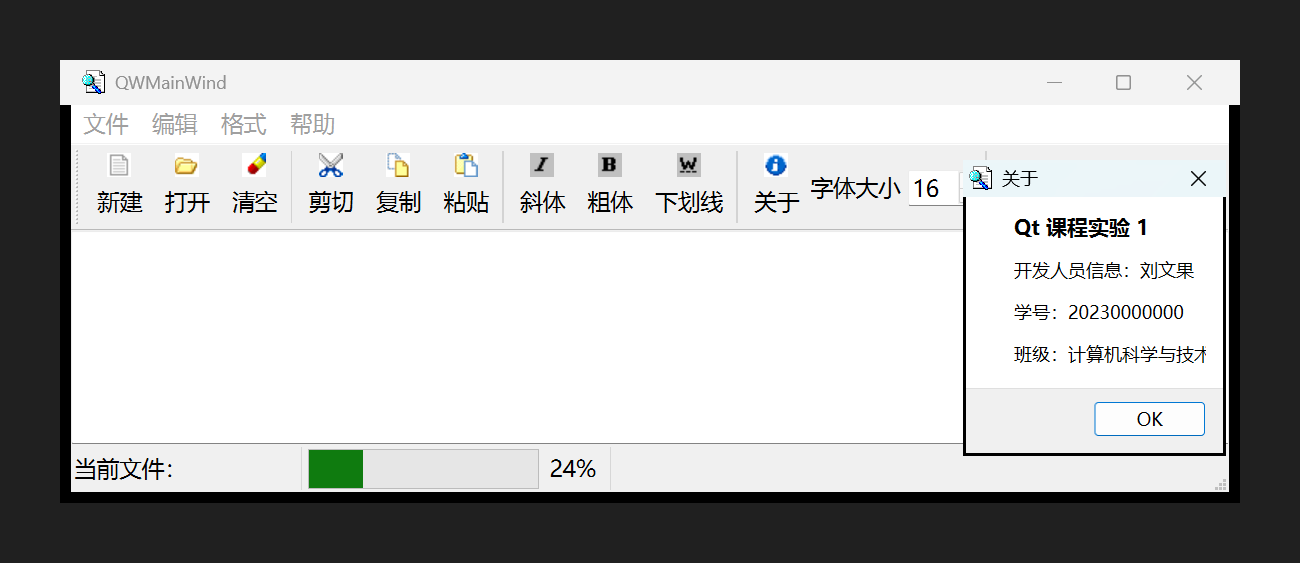
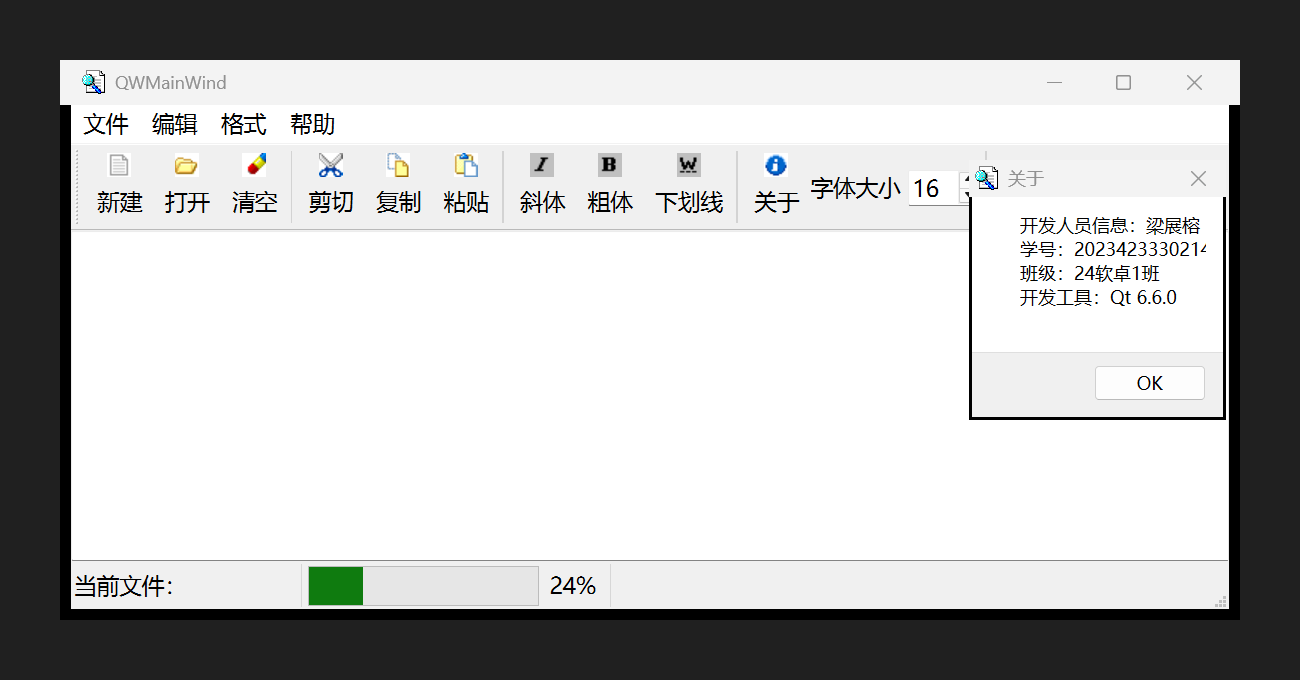
实验1：关于窗口填入真实姓名/学号/班级，更新运行截图

diff --git a/samp2_4App/qwmainwind.cpp b/samp2_4App/qwmainwind.cpp
@@ -14,9 +14,9 @@
 
 //==================== 实验1 任务1：关于窗口中的作者信息 ====================
 // 只需修改下面两行，即可把"关于"窗口里的姓名、学号换成自己的信息
-#define APP_AUTHOR_NAME     QStringLiteral("刘文果")        // 姓名
-#define APP_AUTHOR_ID       QStringLiteral("20230000000")   // 学号
-#define APP_AUTHOR_CLASS    QStringLiteral("计算机科学与技术") // 班级（可选）
+#define APP_AUTHOR_NAME     QStringLiteral("梁展榕")        // 姓名
+#define APP_AUTHOR_ID       QStringLiteral("2023423330214")   // 学号
+#define APP_AUTHOR_CLASS    QStringLiteral("24软卓1班") // 班级（可选）
 //==========================================================================
 
 
@@ -189,14 +189,14 @@ void QWMainWind::on_actFontUnder_triggered(bool checked)
 }
 
 //实验1 任务1：点击工具栏上的"关于"按钮（或"帮助"菜单里的"关于"），弹出关于窗口
+//  姓名 / 学号 / 班级 在 qwmainwind.cpp 顶部的宏定义里统一修改
 void QWMainWind::on_actAbout_triggered()
 {
     QMessageBox::about(this, tr("关于"),
-        tr("<h3>Qt 课程实验 1</h3>"
-           "<p>开发人员信息：%1</p>"
-           "<p>学号：%2</p>"
-           "<p>班级：%3</p>"
-           "<p>Qt 版本：%4</p>")
+        QStringLiteral("开发人员信息：%1\n"
+                       "学号：%2\n"
+                       "班级：%3\n"
+                       "开发工具：Qt %4")
             .arg(APP_AUTHOR_NAME)
             .arg(APP_AUTHOR_ID)
             .arg(APP_AUTHOR_CLASS)

diff --git a/README.md b/README.md
@@ -36,9 +36,9 @@ QtCourse/
 修改作者信息只需改 `qwmainwind.cpp` 顶部三行宏定义：
 
 ```cpp
-#define APP_AUTHOR_NAME     QStringLiteral("刘文果")        // 姓名
-#define APP_AUTHOR_ID       QStringLiteral("20230000000")   // 学号
-#define APP_AUTHOR_CLASS    QStringLiteral("计算机科学与技术") // 班级（可选）
+#define APP_AUTHOR_NAME     QStringLiteral("梁展榕")        // 姓名
+#define APP_AUTHOR_ID       QStringLiteral("2023423330214")   // 学号
+#define APP_AUTHOR_CLASS    QStringLiteral("24软卓1班") // 班级（可选）
 ```
 
 ## 构建与运行
